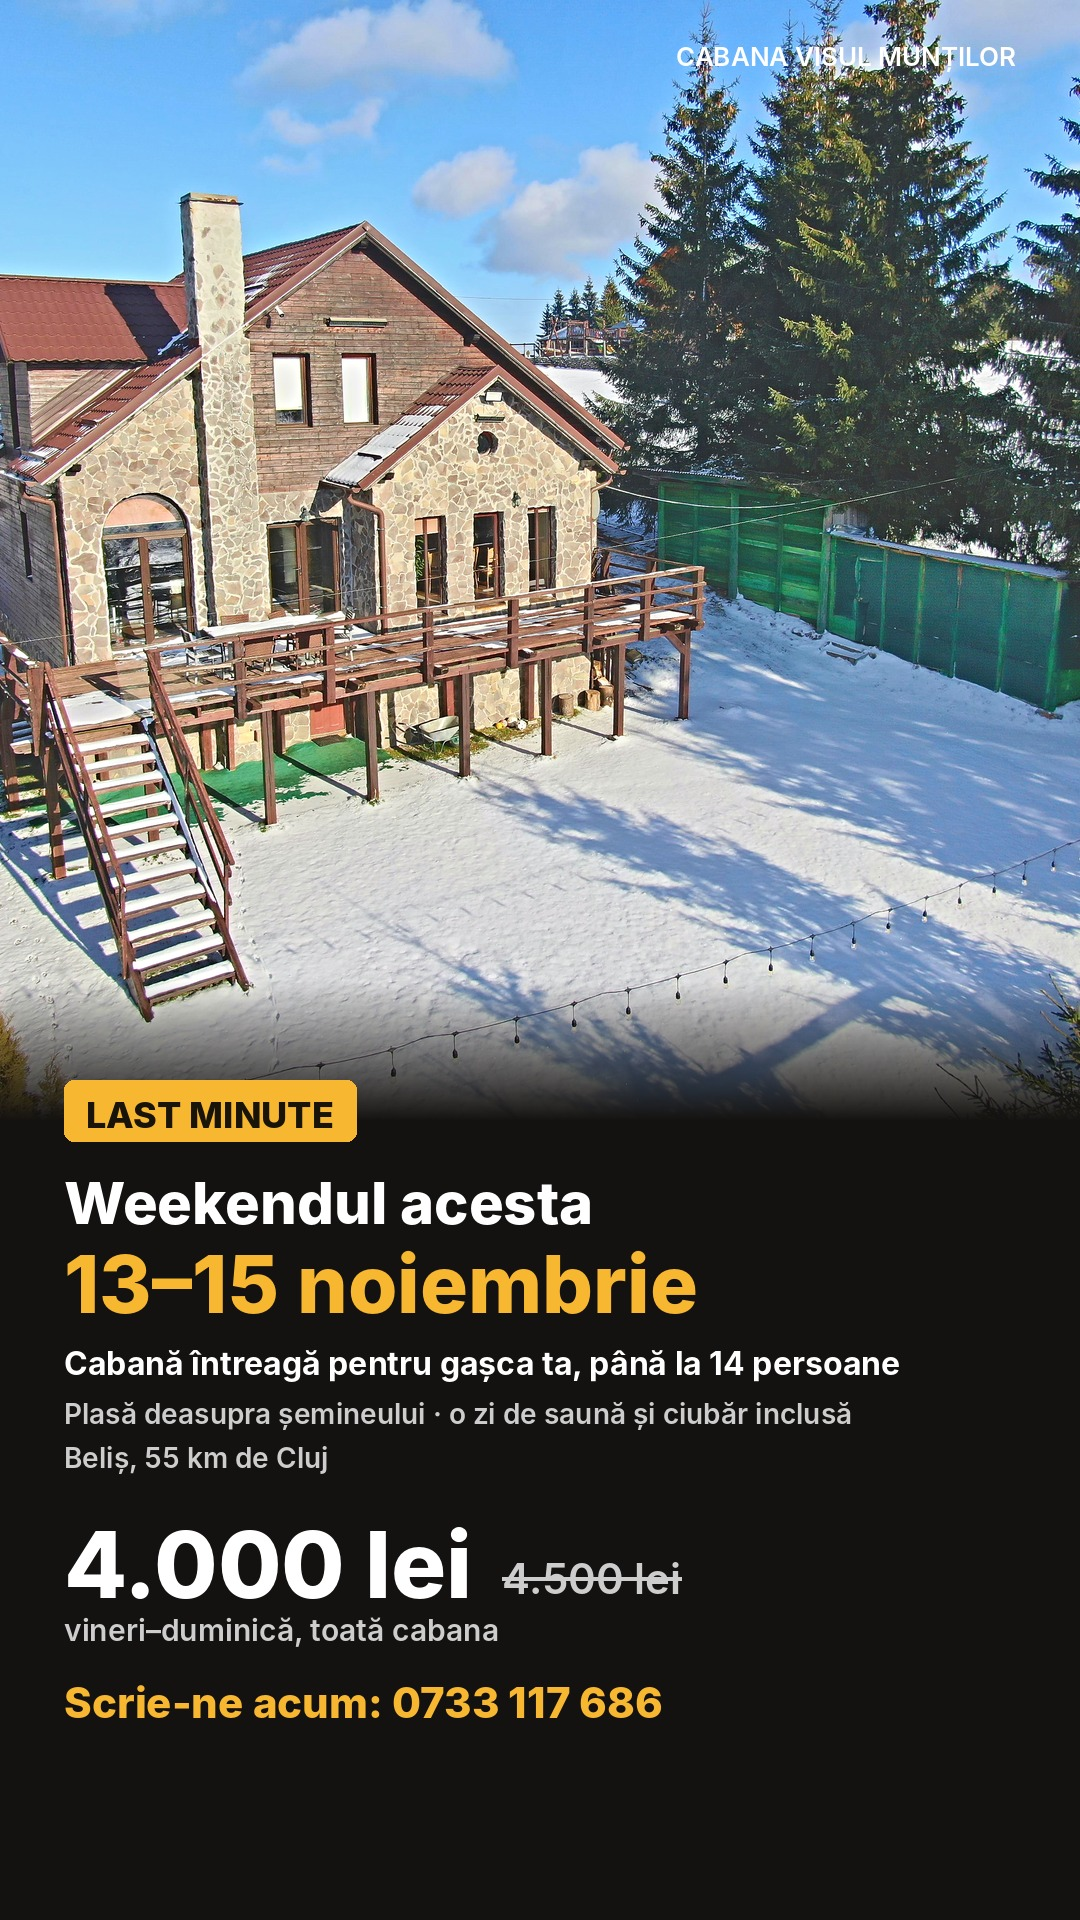
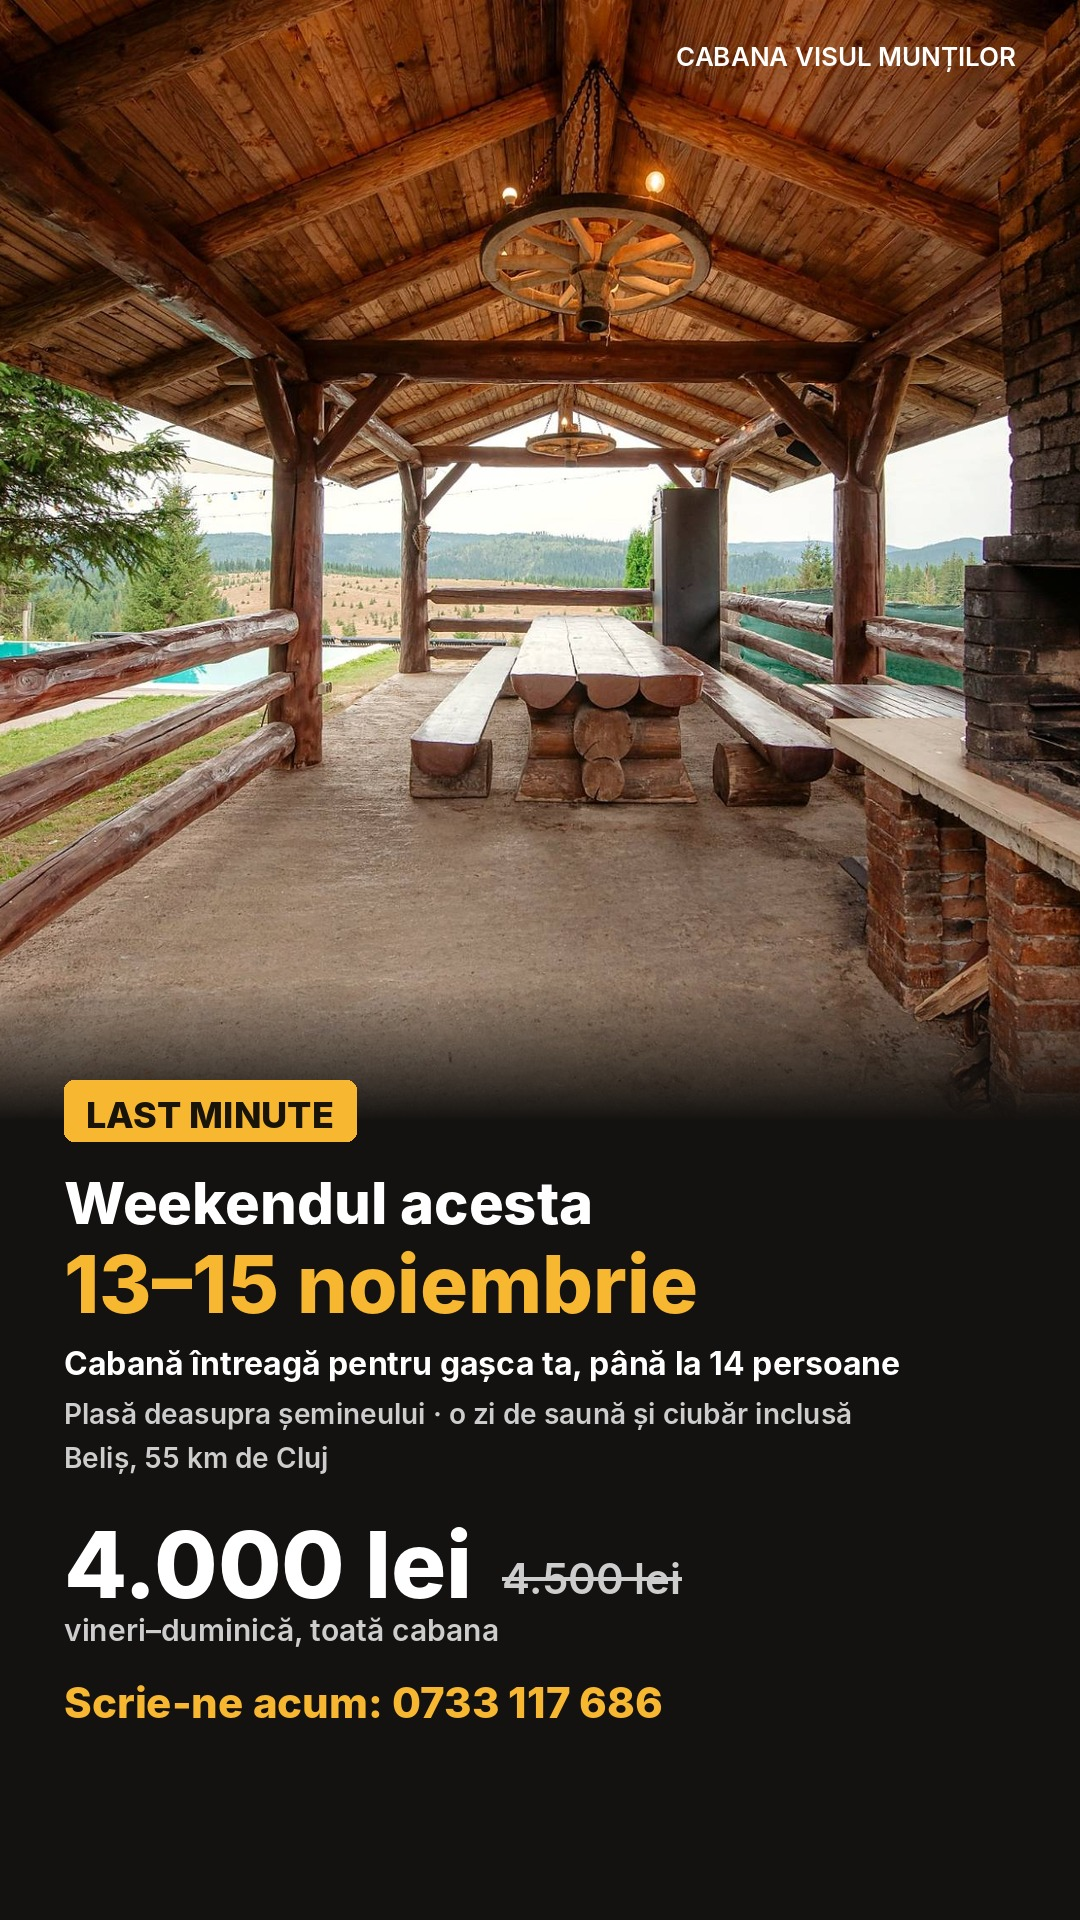
Story last minute cu foisorul (fara zapada) si poze reale de toamna
Claude-Session: https://claude.ai/code/session_01Foa1cN5sEGDxzXVviW9LBi

diff --git a/CONTEXT-MARKETING.md b/CONTEXT-MARKETING.md
@@ -31,7 +31,8 @@ Rezumat pentru orice sesiune nouă. Actualizat: 11 nov 2026.
 - **Nu-i plac clipurile din `2026-11/reels-v2/`**: arată a AI / fals și au ritm și sunet nepotrivite (poze animate lent, sunet de foc).
 - Vrea material real, cu ritm. Nu mai genera clipuri cu gazda AI sau cu oameni generați fără să întrebi întâi.
 - Postarea programată a lui R4 pe Instagram a fost anulată. Reclamele R4, N1 și R2 sunt oprite; rulează doar R1.
-- Pentru 13–15 nov rămâne același preț, 4.500 lei, fără reducere de ultim moment.
+- 13–15 nov: last minute la 4.000 lei (decizia proprietarului, 11 nov).
+- **La Beliș nu a ninș încă (11 nov): nu folosi poze cu zăpadă pentru weekendurile din noiembrie.** Poze reale de toamnă în `2026-11/poze-reale/toamna/` (foișor cu grătar, dronă, terasă, fațadă).
 
 ## Gazda video
 - Rămâne **tânăra cu pulover crem și păr ondulat lăsat liber**, din `2026-11/frames/gazda.jpg` (decizia proprietarului, 11 nov).
